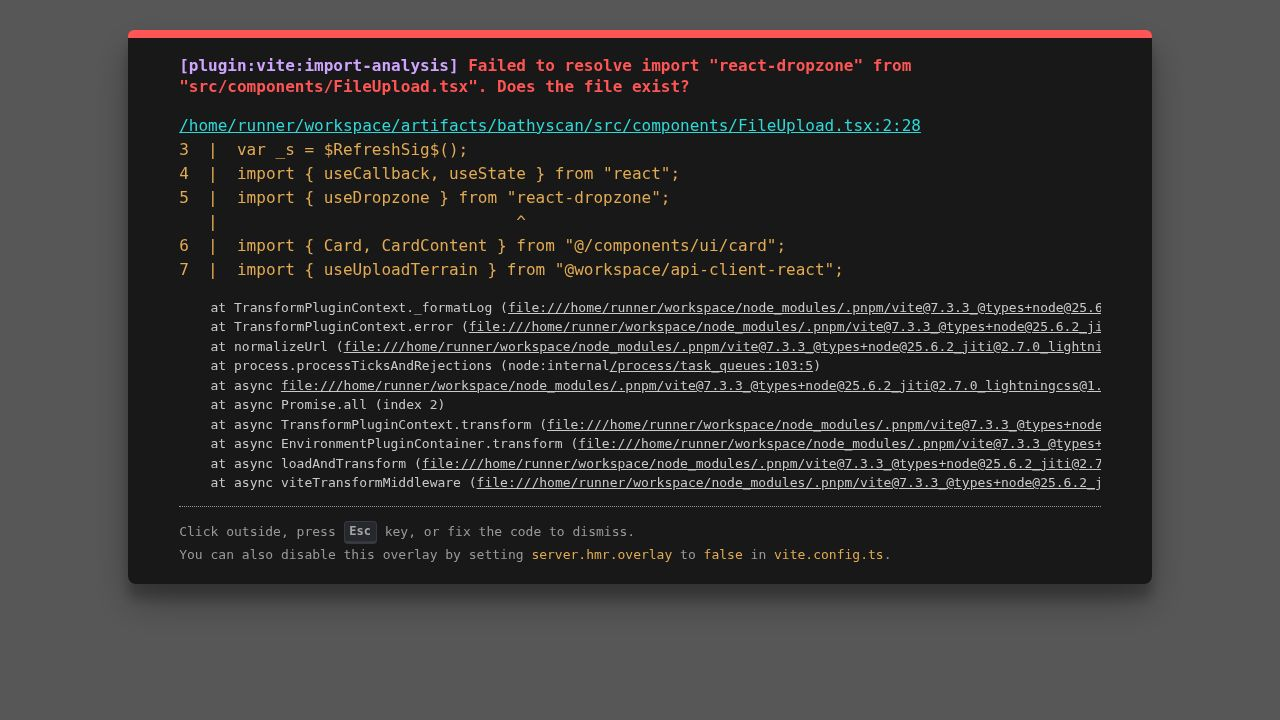
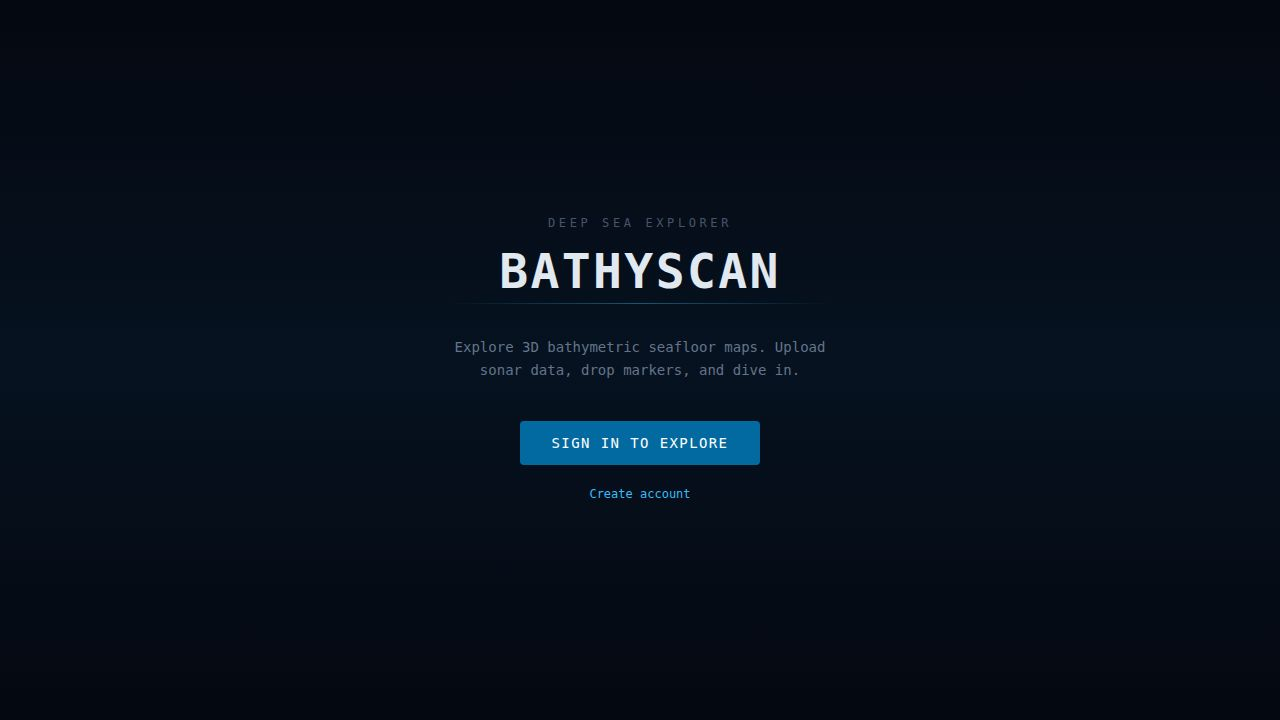
Improve camera behavior and fix initialization logic
Update camera initialization to reset on new terrain loads and refactor `useFlyControls` hook.

Replit-Commit-Author: Agent
Replit-Commit-Session-Id: 4ac1db64-ca75-458b-bf2a-7c697a89308e
Replit-Commit-Checkpoint-Type: full_checkpoint
Replit-Commit-Event-Id: 121edb11-04e6-4555-a45d-d21385d910f7
Replit-Commit-Screenshot-Url: https://storage.googleapis.com/screenshot-production-us-central1/3cbc8e82-485c-4459-8b4c-d6abbd1a4049/4ac1db64-ca75-458b-bf2a-7c697a89308e/ZgQRAl5
Replit-Helium-Checkpoint-Created: true

diff --git a/artifacts/bathyscan/src/hooks/useFlyControls.ts b/artifacts/bathyscan/src/hooks/useFlyControls.ts
@@ -37,8 +37,6 @@ export function useFlyControls({ terrainMeshRef, lightRef }: FlyControlsOptions)
   const rightDir = useRef(new THREE.Vector3());
   const lightPos = useRef(new THREE.Vector3());
   const orbitTargetArr = useRef<[number, number, number]>([0, -10, 0]);
-  const initialized = useRef(false);
-
   // ---------------------------------------------------------------------------
   // Camera initialisation: place 10 units above deepest terrain point
   // ---------------------------------------------------------------------------
@@ -66,12 +64,9 @@ export function useFlyControls({ terrainMeshRef, lightRef }: FlyControlsOptions)
     camera.quaternion.setFromEuler(euler.current);
   }, [camera]);
 
-  // Initialise once when terrain first loads
+  // Reset camera each time a new terrain dataset is loaded
   useEffect(() => {
-    if (terrain && !initialized.current) {
-      initialized.current = true;
-      resetCamera();
-    }
+    if (terrain) resetCamera();
   }, [terrain, resetCamera]);
 
   // ---------------------------------------------------------------------------

diff --git a/test-results/smoke-BathyScan-—-smoke-su-5408a-s-present-and-lists-5-items-chromium/error-context.md b/test-results/smoke-BathyScan-—-smoke-su-5408a-s-present-and-lists-5-items-chromium/error-context.md
@@ -1,0 +1,34 @@
+# Instructions
+
+- Following Playwright test failed.
+- Explain why, be concise, respect Playwright best practices.
+- Provide a snippet of code with the fix, if possible.
+
+# Test info
+
+- Name: smoke.spec.ts >> BathyScan — smoke suite >> dataset picker panel is present and lists 5 items
+- Location: tests/e2e/smoke.spec.ts:29:7
+
+# Error details
+
+```
+Error: browserType.launch: Target page, context or browser has been closed
+Browser logs:
+
+<launching> /home/runner/workspace/.cache/ms-playwright/chromium_headless_shell-1223/chrome-headless-shell-linux64/chrome-headless-shell --disable-field-trial-config --disable-background-networking --disable-background-timer-throttling --disable-backgrounding-occluded-windows --disable-back-forward-cache --disable-breakpad --disable-client-side-phishing-detection --disable-component-extensions-with-background-pages --disable-component-update --no-default-browser-check --disable-default-apps --disable-dev-shm-usage --disable-edgeupdater --disable-extensions --disable-features=AvoidUnnecessaryBeforeUnloadCheckSync,BoundaryEventDispatchTracksNodeRemoval,DestroyProfileOnBrowserClose,DialMediaRouteProvider,GlobalMediaControls,HttpsUpgrades,LensOverlay,MediaRouter,PaintHolding,ThirdPartyStoragePartitioning,Translate,AutoDeElevate,RenderDocument,OptimizationHints,msForceBrowserSignIn,msEdgeUpdateLaunchServicesPreferredVersion --enable-features=CDPScreenshotNewSurface --allow-pre-commit-input --disable-hang-monitor --disable-ipc-flooding-protection --disable-popup-blocking --disable-prompt-on-repost --disable-renderer-backgrounding --force-color-profile=srgb --metrics-recording-only --no-first-run --password-store=basic --use-mock-keychain --no-service-autorun --export-tagged-pdf --disable-search-engine-choice-screen --unsafely-disable-devtools-self-xss-warnings --edge-skip-compat-layer-relaunch --disable-infobars --disable-search-engine-choice-screen --disable-sync --enable-unsafe-swiftshader --headless --hide-scrollbars --mute-audio --blink-settings=primaryHoverType=2,availableHoverTypes=2,primaryPointerType=4,availablePointerTypes=4 --no-sandbox --user-data-dir=/tmp/playwright_chromiumdev_profile-GAGEWb --remote-debugging-pipe --no-startup-window
+<launched> pid=1364
+[pid=1364][err] /home/runner/workspace/.cache/ms-playwright/chromium_headless_shell-1223/chrome-headless-shell-linux64/chrome-headless-shell: error while loading shared libraries: libglib-2.0.so.0: cannot open shared object file: No such file or directory
+Call log:
+  - <launching> /home/runner/workspace/.cache/ms-playwright/chromium_headless_shell-1223/chrome-headless-shell-linux64/chrome-headless-shell --disable-field-trial-config --disable-background-networking --disable-background-timer-throttling --disable-backgrounding-occluded-windows --disable-back-forward-cache --disable-breakpad --disable-client-side-phishing-detection --disable-component-extensions-with-background-pages --disable-component-update --no-default-browser-check --disable-default-apps --disable-dev-shm-usage --disable-edgeupdater --disable-extensions --disable-features=AvoidUnnecessaryBeforeUnloadCheckSync,BoundaryEventDispatchTracksNodeRemoval,DestroyProfileOnBrowserClose,DialMediaRouteProvider,GlobalMediaControls,HttpsUpgrades,LensOverlay,MediaRouter,PaintHolding,ThirdPartyStoragePartitioning,Translate,AutoDeElevate,RenderDocument,OptimizationHints,msForceBrowserSignIn,msEdgeUpdateLaunchServicesPreferredVersion --enable-features=CDPScreenshotNewSurface --allow-pre-commit-input --disable-hang-monitor --disable-ipc-flooding-protection --disable-popup-blocking --disable-prompt-on-repost --disable-renderer-backgrounding --force-color-profile=srgb --metrics-recording-only --no-first-run --password-store=basic --use-mock-keychain --no-service-autorun --export-tagged-pdf --disable-search-engine-choice-screen --unsafely-disable-devtools-self-xss-warnings --edge-skip-compat-layer-relaunch --disable-infobars --disable-search-engine-choice-screen --disable-sync --enable-unsafe-swiftshader --headless --hide-scrollbars --mute-audio --blink-settings=primaryHoverType=2,availableHoverTypes=2,primaryPointerType=4,availablePointerTypes=4 --no-sandbox --user-data-dir=/tmp/playwright_chromiumdev_profile-GAGEWb --remote-debugging-pipe --no-startup-window
+  - <launched> pid=1364
+  - [pid=1364][err] /home/runner/workspace/.cache/ms-playwright/chromium_headless_shell-1223/chrome-headless-shell-linux64/chrome-headless-shell: error while loading shared libraries: libglib-2.0.so.0: cannot open shared object file: No such file or directory
+  - [pid=1364] <gracefully close start>
+  - [pid=1364] <kill>
+  - [pid=1364] <will force kill>
+  - [pid=1364] exception while trying to kill process: Error: kill ESRCH
+  - [pid=1364] <process did exit: exitCode=127, signal=null>
+  - [pid=1364] starting temporary directories cleanup
+  - [pid=1364] finished temporary directories cleanup
+  - [pid=1364] <gracefully close end>
+
+```

diff --git a/test-results/smoke-BathyScan-—-smoke-su-7d80b-and-depth-value-is-a-number-chromium/error-context.md b/test-results/smoke-BathyScan-—-smoke-su-7d80b-and-depth-value-is-a-number-chromium/error-context.md
@@ -1,0 +1,34 @@
+# Instructions
+
+- Following Playwright test failed.
+- Explain why, be concise, respect Playwright best practices.
+- Provide a snippet of code with the fix, if possible.
+
+# Test info
+
+- Name: smoke.spec.ts >> BathyScan — smoke suite >> HUD overlay is visible and depth value is a number
+- Location: tests/e2e/smoke.spec.ts:40:7
+
+# Error details
+
+```
+Error: browserType.launch: Target page, context or browser has been closed
+Browser logs:
+
+<launching> /home/runner/workspace/.cache/ms-playwright/chromium_headless_shell-1223/chrome-headless-shell-linux64/chrome-headless-shell --disable-field-trial-config --disable-background-networking --disable-background-timer-throttling --disable-backgrounding-occluded-windows --disable-back-forward-cache --disable-breakpad --disable-client-side-phishing-detection --disable-component-extensions-with-background-pages --disable-component-update --no-default-browser-check --disable-default-apps --disable-dev-shm-usage --disable-edgeupdater --disable-extensions --disable-features=AvoidUnnecessaryBeforeUnloadCheckSync,BoundaryEventDispatchTracksNodeRemoval,DestroyProfileOnBrowserClose,DialMediaRouteProvider,GlobalMediaControls,HttpsUpgrades,LensOverlay,MediaRouter,PaintHolding,ThirdPartyStoragePartitioning,Translate,AutoDeElevate,RenderDocument,OptimizationHints,msForceBrowserSignIn,msEdgeUpdateLaunchServicesPreferredVersion --enable-features=CDPScreenshotNewSurface --allow-pre-commit-input --disable-hang-monitor --disable-ipc-flooding-protection --disable-popup-blocking --disable-prompt-on-repost --disable-renderer-backgrounding --force-color-profile=srgb --metrics-recording-only --no-first-run --password-store=basic --use-mock-keychain --no-service-autorun --export-tagged-pdf --disable-search-engine-choice-screen --unsafely-disable-devtools-self-xss-warnings --edge-skip-compat-layer-relaunch --disable-infobars --disable-search-engine-choice-screen --disable-sync --enable-unsafe-swiftshader --headless --hide-scrollbars --mute-audio --blink-settings=primaryHoverType=2,availableHoverTypes=2,primaryPointerType=4,availablePointerTypes=4 --no-sandbox --user-data-dir=/tmp/playwright_chromiumdev_profile-XIANzX --remote-debugging-pipe --no-startup-window
+<launched> pid=1405
+[pid=1405][err] /home/runner/workspace/.cache/ms-playwright/chromium_headless_shell-1223/chrome-headless-shell-linux64/chrome-headless-shell: error while loading shared libraries: libglib-2.0.so.0: cannot open shared object file: No such file or directory
+Call log:
+  - <launching> /home/runner/workspace/.cache/ms-playwright/chromium_headless_shell-1223/chrome-headless-shell-linux64/chrome-headless-shell --disable-field-trial-config --disable-background-networking --disable-background-timer-throttling --disable-backgrounding-occluded-windows --disable-back-forward-cache --disable-breakpad --disable-client-side-phishing-detection --disable-component-extensions-with-background-pages --disable-component-update --no-default-browser-check --disable-default-apps --disable-dev-shm-usage --disable-edgeupdater --disable-extensions --disable-features=AvoidUnnecessaryBeforeUnloadCheckSync,BoundaryEventDispatchTracksNodeRemoval,DestroyProfileOnBrowserClose,DialMediaRouteProvider,GlobalMediaControls,HttpsUpgrades,LensOverlay,MediaRouter,PaintHolding,ThirdPartyStoragePartitioning,Translate,AutoDeElevate,RenderDocument,OptimizationHints,msForceBrowserSignIn,msEdgeUpdateLaunchServicesPreferredVersion --enable-features=CDPScreenshotNewSurface --allow-pre-commit-input --disable-hang-monitor --disable-ipc-flooding-protection --disable-popup-blocking --disable-prompt-on-repost --disable-renderer-backgrounding --force-color-profile=srgb --metrics-recording-only --no-first-run --password-store=basic --use-mock-keychain --no-service-autorun --export-tagged-pdf --disable-search-engine-choice-screen --unsafely-disable-devtools-self-xss-warnings --edge-skip-compat-layer-relaunch --disable-infobars --disable-search-engine-choice-screen --disable-sync --enable-unsafe-swiftshader --headless --hide-scrollbars --mute-audio --blink-settings=primaryHoverType=2,availableHoverTypes=2,primaryPointerType=4,availablePointerTypes=4 --no-sandbox --user-data-dir=/tmp/playwright_chromiumdev_profile-XIANzX --remote-debugging-pipe --no-startup-window
+  - <launched> pid=1405
+  - [pid=1405][err] /home/runner/workspace/.cache/ms-playwright/chromium_headless_shell-1223/chrome-headless-shell-linux64/chrome-headless-shell: error while loading shared libraries: libglib-2.0.so.0: cannot open shared object file: No such file or directory
+  - [pid=1405] <gracefully close start>
+  - [pid=1405] <kill>
+  - [pid=1405] <will force kill>
+  - [pid=1405] exception while trying to kill process: Error: kill ESRCH
+  - [pid=1405] <process did exit: exitCode=127, signal=null>
+  - [pid=1405] starting temporary directories cleanup
+  - [pid=1405] finished temporary directories cleanup
+  - [pid=1405] <gracefully close end>
+
+```

diff --git a/test-results/smoke-BathyScan-—-smoke-su-95770-zone-is-present-on-the-page-chromium/error-context.md b/test-results/smoke-BathyScan-—-smoke-su-95770-zone-is-present-on-the-page-chromium/error-context.md
@@ -1,0 +1,34 @@
+# Instructions
+
+- Following Playwright test failed.
+- Explain why, be concise, respect Playwright best practices.
+- Provide a snippet of code with the fix, if possible.
+
+# Test info
+
+- Name: smoke.spec.ts >> BathyScan — smoke suite >> file upload zone is present on the page
+- Location: tests/e2e/smoke.spec.ts:47:7
+
+# Error details
+
+```
+Error: browserType.launch: Target page, context or browser has been closed
+Browser logs:
+
+<launching> /home/runner/workspace/.cache/ms-playwright/chromium_headless_shell-1223/chrome-headless-shell-linux64/chrome-headless-shell --disable-field-trial-config --disable-background-networking --disable-background-timer-throttling --disable-backgrounding-occluded-windows --disable-back-forward-cache --disable-breakpad --disable-client-side-phishing-detection --disable-component-extensions-with-background-pages --disable-component-update --no-default-browser-check --disable-default-apps --disable-dev-shm-usage --disable-edgeupdater --disable-extensions --disable-features=AvoidUnnecessaryBeforeUnloadCheckSync,BoundaryEventDispatchTracksNodeRemoval,DestroyProfileOnBrowserClose,DialMediaRouteProvider,GlobalMediaControls,HttpsUpgrades,LensOverlay,MediaRouter,PaintHolding,ThirdPartyStoragePartitioning,Translate,AutoDeElevate,RenderDocument,OptimizationHints,msForceBrowserSignIn,msEdgeUpdateLaunchServicesPreferredVersion --enable-features=CDPScreenshotNewSurface --allow-pre-commit-input --disable-hang-monitor --disable-ipc-flooding-protection --disable-popup-blocking --disable-prompt-on-repost --disable-renderer-backgrounding --force-color-profile=srgb --metrics-recording-only --no-first-run --password-store=basic --use-mock-keychain --no-service-autorun --export-tagged-pdf --disable-search-engine-choice-screen --unsafely-disable-devtools-self-xss-warnings --edge-skip-compat-layer-relaunch --disable-infobars --disable-search-engine-choice-screen --disable-sync --enable-unsafe-swiftshader --headless --hide-scrollbars --mute-audio --blink-settings=primaryHoverType=2,availableHoverTypes=2,primaryPointerType=4,availablePointerTypes=4 --no-sandbox --user-data-dir=/tmp/playwright_chromiumdev_profile-2ij3u7 --remote-debugging-pipe --no-startup-window
+<launched> pid=1419
+[pid=1419][err] /home/runner/workspace/.cache/ms-playwright/chromium_headless_shell-1223/chrome-headless-shell-linux64/chrome-headless-shell: error while loading shared libraries: libglib-2.0.so.0: cannot open shared object file: No such file or directory
+Call log:
+  - <launching> /home/runner/workspace/.cache/ms-playwright/chromium_headless_shell-1223/chrome-headless-shell-linux64/chrome-headless-shell --disable-field-trial-config --disable-background-networking --disable-background-timer-throttling --disable-backgrounding-occluded-windows --disable-back-forward-cache --disable-breakpad --disable-client-side-phishing-detection --disable-component-extensions-with-background-pages --disable-component-update --no-default-browser-check --disable-default-apps --disable-dev-shm-usage --disable-edgeupdater --disable-extensions --disable-features=AvoidUnnecessaryBeforeUnloadCheckSync,BoundaryEventDispatchTracksNodeRemoval,DestroyProfileOnBrowserClose,DialMediaRouteProvider,GlobalMediaControls,HttpsUpgrades,LensOverlay,MediaRouter,PaintHolding,ThirdPartyStoragePartitioning,Translate,AutoDeElevate,RenderDocument,OptimizationHints,msForceBrowserSignIn,msEdgeUpdateLaunchServicesPreferredVersion --enable-features=CDPScreenshotNewSurface --allow-pre-commit-input --disable-hang-monitor --disable-ipc-flooding-protection --disable-popup-blocking --disable-prompt-on-repost --disable-renderer-backgrounding --force-color-profile=srgb --metrics-recording-only --no-first-run --password-store=basic --use-mock-keychain --no-service-autorun --export-tagged-pdf --disable-search-engine-choice-screen --unsafely-disable-devtools-self-xss-warnings --edge-skip-compat-layer-relaunch --disable-infobars --disable-search-engine-choice-screen --disable-sync --enable-unsafe-swiftshader --headless --hide-scrollbars --mute-audio --blink-settings=primaryHoverType=2,availableHoverTypes=2,primaryPointerType=4,availablePointerTypes=4 --no-sandbox --user-data-dir=/tmp/playwright_chromiumdev_profile-2ij3u7 --remote-debugging-pipe --no-startup-window
+  - <launched> pid=1419
+  - [pid=1419][err] /home/runner/workspace/.cache/ms-playwright/chromium_headless_shell-1223/chrome-headless-shell-linux64/chrome-headless-shell: error while loading shared libraries: libglib-2.0.so.0: cannot open shared object file: No such file or directory
+  - [pid=1419] <gracefully close start>
+  - [pid=1419] <kill>
+  - [pid=1419] <will force kill>
+  - [pid=1419] exception while trying to kill process: Error: kill ESRCH
+  - [pid=1419] <process did exit: exitCode=127, signal=null>
+  - [pid=1419] starting temporary directories cleanup
+  - [pid=1419] finished temporary directories cleanup
+  - [pid=1419] <gracefully close end>
+
+```

diff --git a/test-results/smoke-BathyScan-—-smoke-su-fc6ca-nt-with-non-zero-dimensions-chromium/error-context.md b/test-results/smoke-BathyScan-—-smoke-su-fc6ca-nt-with-non-zero-dimensions-chromium/error-context.md
@@ -1,0 +1,34 @@
+# Instructions
+
+- Following Playwright test failed.
+- Explain why, be concise, respect Playwright best practices.
+- Provide a snippet of code with the fix, if possible.
+
+# Test info
+
+- Name: smoke.spec.ts >> BathyScan — smoke suite >> Three.js canvas element is present with non-zero dimensions
+- Location: tests/e2e/smoke.spec.ts:20:7
+
+# Error details
+
+```
+Error: browserType.launch: Target page, context or browser has been closed
+Browser logs:
+
+<launching> /home/runner/workspace/.cache/ms-playwright/chromium_headless_shell-1223/chrome-headless-shell-linux64/chrome-headless-shell --disable-field-trial-config --disable-background-networking --disable-background-timer-throttling --disable-backgrounding-occluded-windows --disable-back-forward-cache --disable-breakpad --disable-client-side-phishing-detection --disable-component-extensions-with-background-pages --disable-component-update --no-default-browser-check --disable-default-apps --disable-dev-shm-usage --disable-edgeupdater --disable-extensions --disable-features=AvoidUnnecessaryBeforeUnloadCheckSync,BoundaryEventDispatchTracksNodeRemoval,DestroyProfileOnBrowserClose,DialMediaRouteProvider,GlobalMediaControls,HttpsUpgrades,LensOverlay,MediaRouter,PaintHolding,ThirdPartyStoragePartitioning,Translate,AutoDeElevate,RenderDocument,OptimizationHints,msForceBrowserSignIn,msEdgeUpdateLaunchServicesPreferredVersion --enable-features=CDPScreenshotNewSurface --allow-pre-commit-input --disable-hang-monitor --disable-ipc-flooding-protection --disable-popup-blocking --disable-prompt-on-repost --disable-renderer-backgrounding --force-color-profile=srgb --metrics-recording-only --no-first-run --password-store=basic --use-mock-keychain --no-service-autorun --export-tagged-pdf --disable-search-engine-choice-screen --unsafely-disable-devtools-self-xss-warnings --edge-skip-compat-layer-relaunch --disable-infobars --disable-search-engine-choice-screen --disable-sync --enable-unsafe-swiftshader --headless --hide-scrollbars --mute-audio --blink-settings=primaryHoverType=2,availableHoverTypes=2,primaryPointerType=4,availablePointerTypes=4 --no-sandbox --user-data-dir=/tmp/playwright_chromiumdev_profile-PoUnsf --remote-debugging-pipe --no-startup-window
+<launched> pid=1300
+[pid=1300][err] /home/runner/workspace/.cache/ms-playwright/chromium_headless_shell-1223/chrome-headless-shell-linux64/chrome-headless-shell: error while loading shared libraries: libglib-2.0.so.0: cannot open shared object file: No such file or directory
+Call log:
+  - <launching> /home/runner/workspace/.cache/ms-playwright/chromium_headless_shell-1223/chrome-headless-shell-linux64/chrome-headless-shell --disable-field-trial-config --disable-background-networking --disable-background-timer-throttling --disable-backgrounding-occluded-windows --disable-back-forward-cache --disable-breakpad --disable-client-side-phishing-detection --disable-component-extensions-with-background-pages --disable-component-update --no-default-browser-check --disable-default-apps --disable-dev-shm-usage --disable-edgeupdater --disable-extensions --disable-features=AvoidUnnecessaryBeforeUnloadCheckSync,BoundaryEventDispatchTracksNodeRemoval,DestroyProfileOnBrowserClose,DialMediaRouteProvider,GlobalMediaControls,HttpsUpgrades,LensOverlay,MediaRouter,PaintHolding,ThirdPartyStoragePartitioning,Translate,AutoDeElevate,RenderDocument,OptimizationHints,msForceBrowserSignIn,msEdgeUpdateLaunchServicesPreferredVersion --enable-features=CDPScreenshotNewSurface --allow-pre-commit-input --disable-hang-monitor --disable-ipc-flooding-protection --disable-popup-blocking --disable-prompt-on-repost --disable-renderer-backgrounding --force-color-profile=srgb --metrics-recording-only --no-first-run --password-store=basic --use-mock-keychain --no-service-autorun --export-tagged-pdf --disable-search-engine-choice-screen --unsafely-disable-devtools-self-xss-warnings --edge-skip-compat-layer-relaunch --disable-infobars --disable-search-engine-choice-screen --disable-sync --enable-unsafe-swiftshader --headless --hide-scrollbars --mute-audio --blink-settings=primaryHoverType=2,availableHoverTypes=2,primaryPointerType=4,availablePointerTypes=4 --no-sandbox --user-data-dir=/tmp/playwright_chromiumdev_profile-PoUnsf --remote-debugging-pipe --no-startup-window
+  - <launched> pid=1300
+  - [pid=1300][err] /home/runner/workspace/.cache/ms-playwright/chromium_headless_shell-1223/chrome-headless-shell-linux64/chrome-headless-shell: error while loading shared libraries: libglib-2.0.so.0: cannot open shared object file: No such file or directory
+  - [pid=1300] <gracefully close start>
+  - [pid=1300] <kill>
+  - [pid=1300] <will force kill>
+  - [pid=1300] exception while trying to kill process: Error: kill ESRCH
+  - [pid=1300] <process did exit: exitCode=127, signal=null>
+  - [pid=1300] starting temporary directories cleanup
+  - [pid=1300] finished temporary directories cleanup
+  - [pid=1300] <gracefully close end>
+
+```

diff --git a/test-results/smoke-BathyScan-—-smoke-su-f8fc2-without-unhandled-JS-errors-chromium/error-context.md b/test-results/smoke-BathyScan-—-smoke-su-f8fc2-without-unhandled-JS-errors-chromium/error-context.md
@@ -1,0 +1,33 @@
+# Instructions
+
+- Following Playwright test failed.
+- Explain why, be concise, respect Playwright best practices.
+- Provide a snippet of code with the fix, if possible.
+
+# Test info
+
+- Name: smoke.spec.ts >> BathyScan — smoke suite >> app loads without unhandled JS errors
+- Location: tests/e2e/smoke.spec.ts:8:7
+
+# Error details
+
+```
+Error: browserType.launch: Target page, context or browser has been closed
+Browser logs:
+
+<launching> /home/runner/workspace/.cache/ms-playwright/chromium_headless_shell-1223/chrome-headless-shell-linux64/chrome-headless-shell --disable-field-trial-config --disable-background-networking --disable-background-timer-throttling --disable-backgrounding-occluded-windows --disable-back-forward-cache --disable-breakpad --disable-client-side-phishing-detection --disable-component-extensions-with-background-pages --disable-component-update --no-default-browser-check --disable-default-apps --disable-dev-shm-usage --disable-edgeupdater --disable-extensions --disable-features=AvoidUnnecessaryBeforeUnloadCheckSync,BoundaryEventDispatchTracksNodeRemoval,DestroyProfileOnBrowserClose,DialMediaRouteProvider,GlobalMediaControls,HttpsUpgrades,LensOverlay,MediaRouter,PaintHolding,ThirdPartyStoragePartitioning,Translate,AutoDeElevate,RenderDocument,OptimizationHints,msForceBrowserSignIn,msEdgeUpdateLaunchServicesPreferredVersion --enable-features=CDPScreenshotNewSurface --allow-pre-commit-input --disable-hang-monitor --disable-ipc-flooding-protection --disable-popup-blocking --disable-prompt-on-repost --disable-renderer-backgrounding --force-color-profile=srgb --metrics-recording-only --no-first-run --password-store=basic --use-mock-keychain --no-service-autorun --export-tagged-pdf --disable-search-engine-choice-screen --unsafely-disable-devtools-self-xss-warnings --edge-skip-compat-layer-relaunch --disable-infobars --disable-search-engine-choice-screen --disable-sync --enable-unsafe-swiftshader --headless --hide-scrollbars --mute-audio --blink-settings=primaryHoverType=2,availableHoverTypes=2,primaryPointerType=4,availablePointerTypes=4 --no-sandbox --user-data-dir=/tmp/playwright_chromiumdev_profile-fhnpfQ --remote-debugging-pipe --no-startup-window
+<launched> pid=1244
+[pid=1244][err] /home/runner/workspace/.cache/ms-playwright/chromium_headless_shell-1223/chrome-headless-shell-linux64/chrome-headless-shell: error while loading shared libraries: libglib-2.0.so.0: cannot open shared object file: No such file or directory
+Call log:
+  - <launching> /home/runner/workspace/.cache/ms-playwright/chromium_headless_shell-1223/chrome-headless-shell-linux64/chrome-headless-shell --disable-field-trial-config --disable-background-networking --disable-background-timer-throttling --disable-backgrounding-occluded-windows --disable-back-forward-cache --disable-breakpad --disable-client-side-phishing-detection --disable-component-extensions-with-background-pages --disable-component-update --no-default-browser-check --disable-default-apps --disable-dev-shm-usage --disable-edgeupdater --disable-extensions --disable-features=AvoidUnnecessaryBeforeUnloadCheckSync,BoundaryEventDispatchTracksNodeRemoval,DestroyProfileOnBrowserClose,DialMediaRouteProvider,GlobalMediaControls,HttpsUpgrades,LensOverlay,MediaRouter,PaintHolding,ThirdPartyStoragePartitioning,Translate,AutoDeElevate,RenderDocument,OptimizationHints,msForceBrowserSignIn,msEdgeUpdateLaunchServicesPreferredVersion --enable-features=CDPScreenshotNewSurface --allow-pre-commit-input --disable-hang-monitor --disable-ipc-flooding-protection --disable-popup-blocking --disable-prompt-on-repost --disable-renderer-backgrounding --force-color-profile=srgb --metrics-recording-only --no-first-run --password-store=basic --use-mock-keychain --no-service-autorun --export-tagged-pdf --disable-search-engine-choice-screen --unsafely-disable-devtools-self-xss-warnings --edge-skip-compat-layer-relaunch --disable-infobars --disable-search-engine-choice-screen --disable-sync --enable-unsafe-swiftshader --headless --hide-scrollbars --mute-audio --blink-settings=primaryHoverType=2,availableHoverTypes=2,primaryPointerType=4,availablePointerTypes=4 --no-sandbox --user-data-dir=/tmp/playwright_chromiumdev_profile-fhnpfQ --remote-debugging-pipe --no-startup-window
+  - <launched> pid=1244
+  - [pid=1244][err] /home/runner/workspace/.cache/ms-playwright/chromium_headless_shell-1223/chrome-headless-shell-linux64/chrome-headless-shell: error while loading shared libraries: libglib-2.0.so.0: cannot open shared object file: No such file or directory
+  - [pid=1244] <gracefully close start>
+  - [pid=1244] <kill>
+  - [pid=1244] <will force kill>
+  - [pid=1244] <process did exit: exitCode=127, signal=null>
+  - [pid=1244] starting temporary directories cleanup
+  - [pid=1244] finished temporary directories cleanup
+  - [pid=1244] <gracefully close end>
+
+```